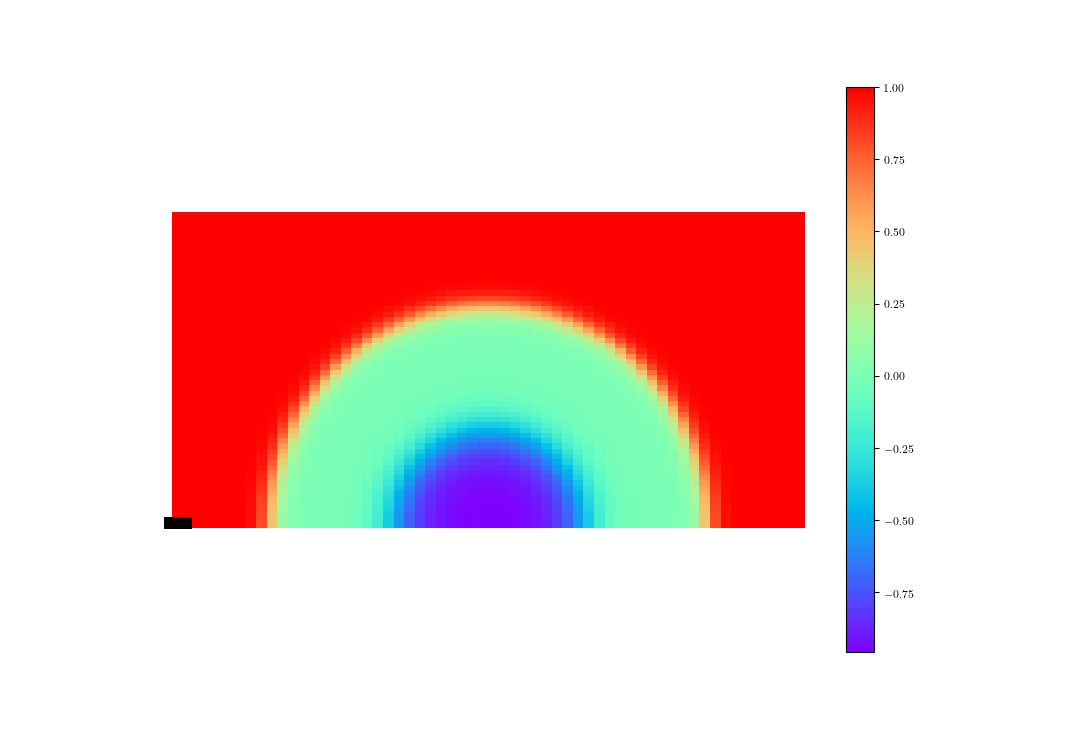
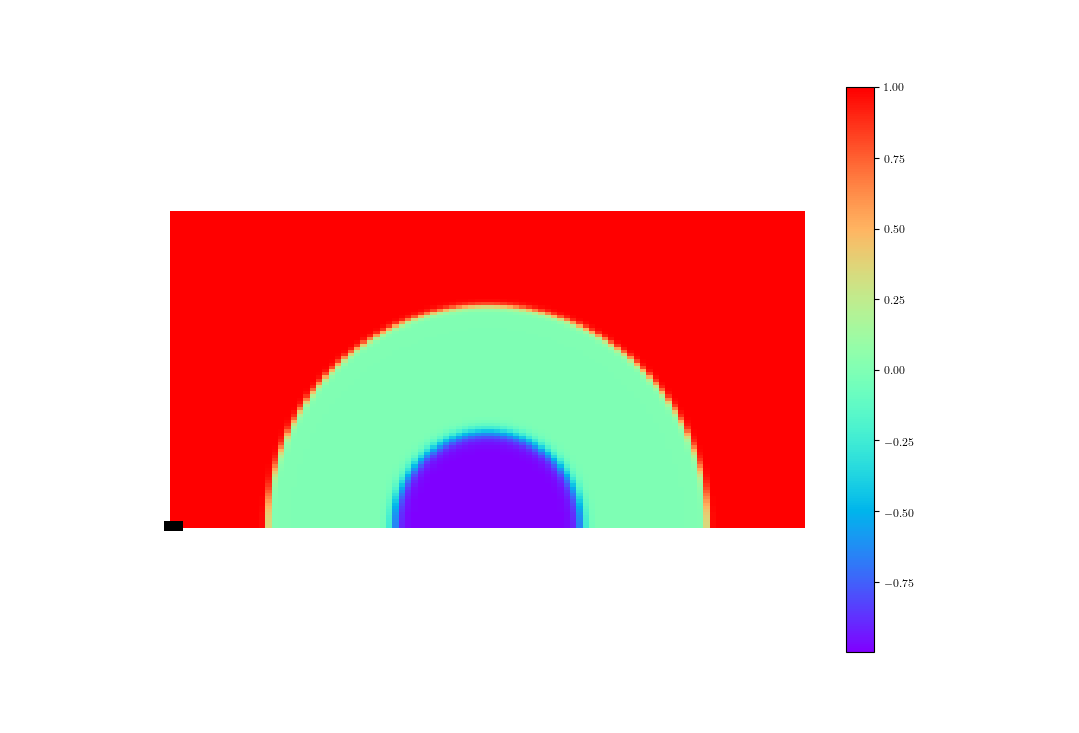
.

diff --git a/Thrombus/CH-NS-2D/test_1/ch_ns_no_psi.py b/Thrombus/CH-NS-2D/test_1/ch_ns_no_psi.py
@@ -38,10 +38,10 @@ np.random.seed(123456)
 
 h = 0.01
 lmd = 0.4*0.00010607
-tau = 1
+tau = 0.000001
 rho = 1
-mu = 0.1
-K = 1
+mu = 0.01
+K = 10
 
 H_o = 0.1
 k = 6*np.pi
@@ -52,7 +52,7 @@ class Model(nn.Module):
         self.net_w = nn.Sequential()
         self.net_w.add_module('net_w_linear_1', nn.Linear(3, 20))
         self.net_w.add_module('net_w_tanh_1', nn.Tanh())
-        for num in range(2,10):
+        for num in range(2,12):
             self.net_w.add_module('net_w_linear_%d' %(num), nn.Linear(20, 20))
             self.net_w.add_module('net_w_tanh_%d' %(num), nn.Tanh())
         self.net_w.add_module('net_w_linear_50', nn.Linear(20, 1))
@@ -60,7 +60,7 @@ class Model(nn.Module):
         self.net_u = nn.Sequential()
         self.net_u.add_module('net_u_linear_1', nn.Linear(3, 20))
         self.net_u.add_module('net_u_tanh_1', nn.Tanh())
-        for num in range(2,10):
+        for num in range(2,12):
             self.net_u.add_module('net_u_linear_%d' %(num), nn.Linear(20, 20))
             self.net_u.add_module('net_u_tanh_%d' %(num), nn.Tanh())
         self.net_u.add_module('net_u_linear_50', nn.Linear(20, 4))
@@ -214,7 +214,7 @@ def CH_2D_init(x_init):
 
     #########
     x, y = symbols('x y')
-    phi = 0.5*(tanh((x**2 + y**2-0.3**2) / (sqrt(2)*0.04) ) + tanh( (x**2 + y**2-0.7**2) / (sqrt(2)*0.04)))
+    phi = 0.5*(tanh((x**2 + y**2-0.3**2) / (sqrt(2)*0.01) ) + tanh( (x**2 + y**2-0.7**2) / (sqrt(2)*0.01)))
     phi_x, phi_y = phi.diff(x), phi.diff(y)
     phi_xx, phi_yy = phi_x.diff(x), phi_y.diff(y)
 
@@ -234,18 +234,18 @@ def main():
     ## parameters
     device = torch.device(f"cuda:{0}" if torch.cuda.is_available() else "cpu")
     print(device, flush=True)
-    epochs = 20000
-    lr = 0.0008
+    epochs = 50000
+    lr = 0.0005
 
     os.makedirs('InitConds', exist_ok=True)
     os.makedirs('Predictions', exist_ok=True)
 
-    num_x = 60
-    num_y = 60
+    num_x = 100
+    num_y = 100
     num_t = 20
-    num_b_train = 60    # boundary sampling points
-    num_f_train = 40000   # inner sampling points
-    num_i_train = 3600   # initial sampling points 
+    num_b_train = 100    # boundary sampling points
+    num_f_train = 100000   # inner sampling points
+    num_i_train = 5000   # initial sampling points 
     num_t_train = 10
     path_list = ['./Predictions/u/', './Predictions/v/', './Predictions/p/', './Predictions/phi/', './Predictions/w/']
 
